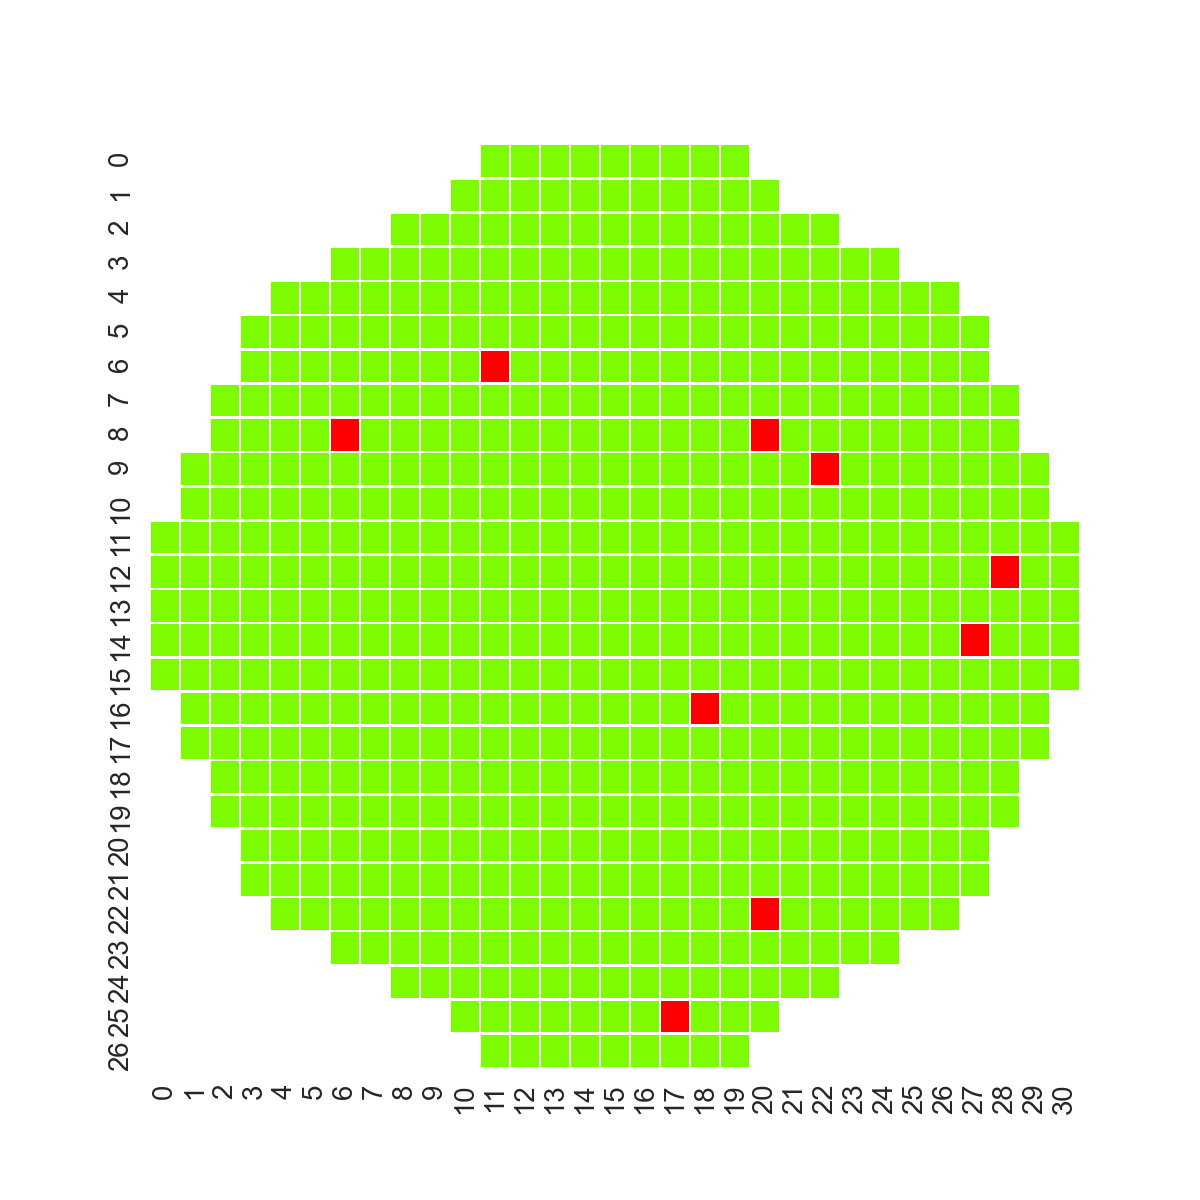
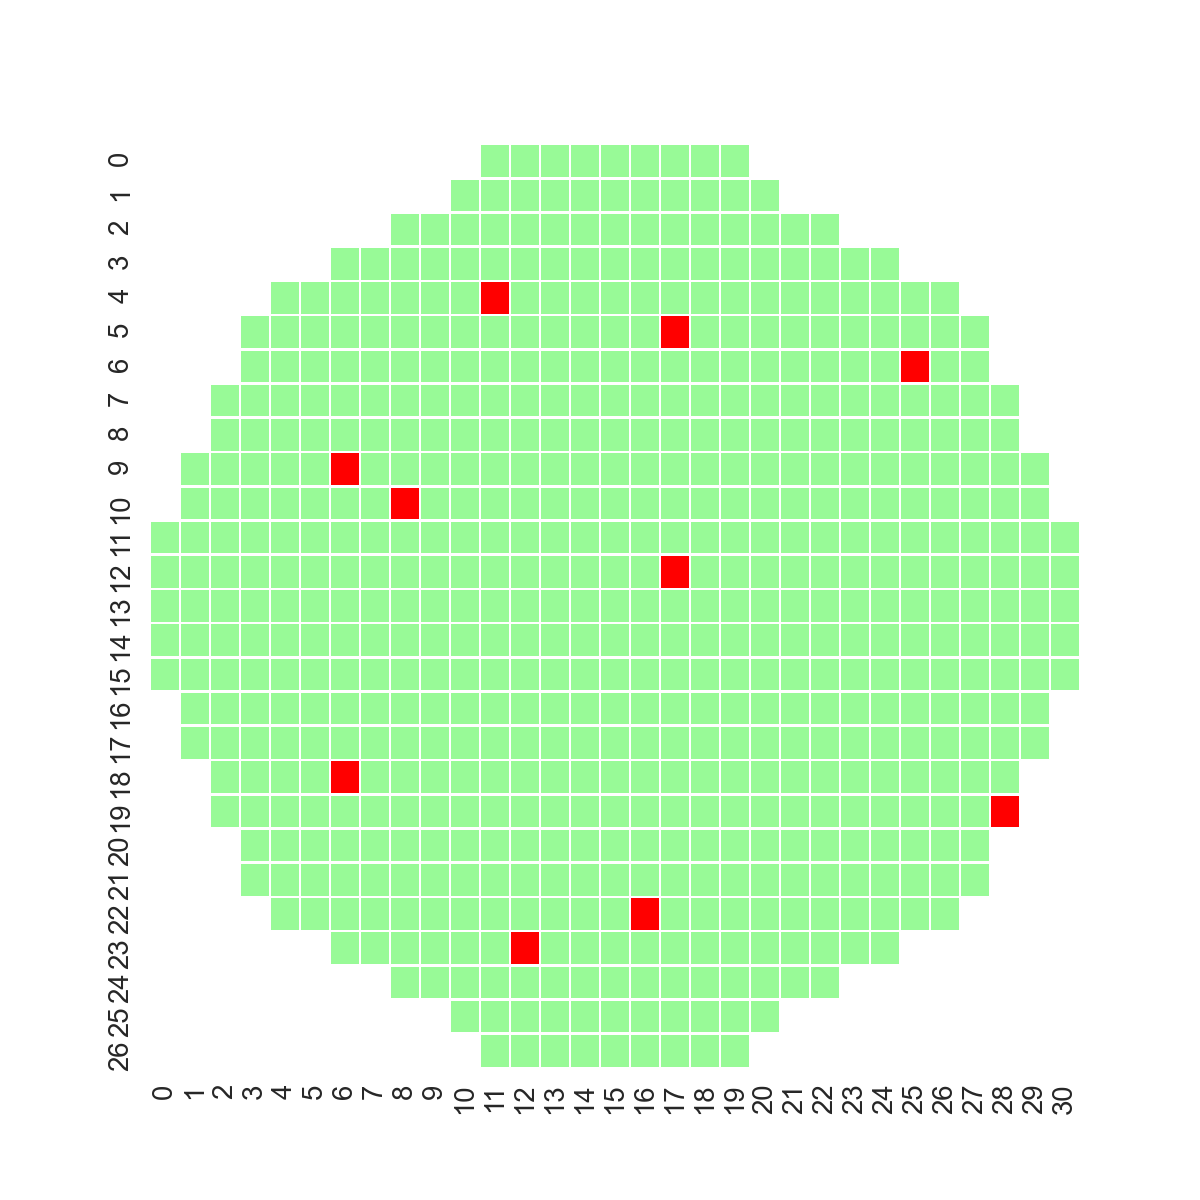
add 27x31 map for 計算相似度用 顏色淺綠色

diff --git a/heat_map/main.py b/heat_map/main.py
@@ -15,7 +15,8 @@ def draw_rawmap(data, folder, imgname):
     sns.set(font_scale=1.5)
     fig, ax = plt.subplots(figsize=(10,10))
     # cmap = sns.color_palette("Pastel2", 3)
-    cmap = mcolors.LinearSegmentedColormap.from_list("n",['white', '#7cfc00', 'red'])
+    # 淺綠色
+    cmap = mcolors.LinearSegmentedColormap.from_list("n",['white', '#98fb98', 'red'])
     sns.heatmap(data,
                 center=1,
                 cmap=cmap,
